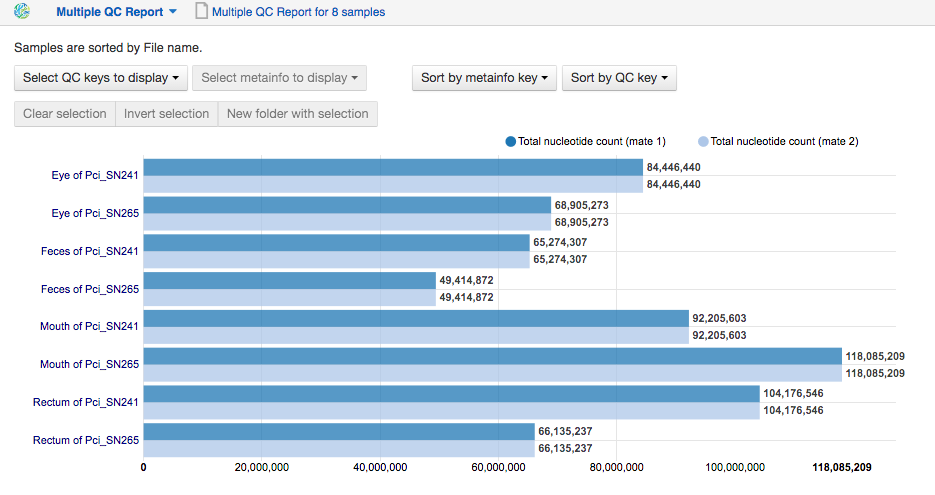
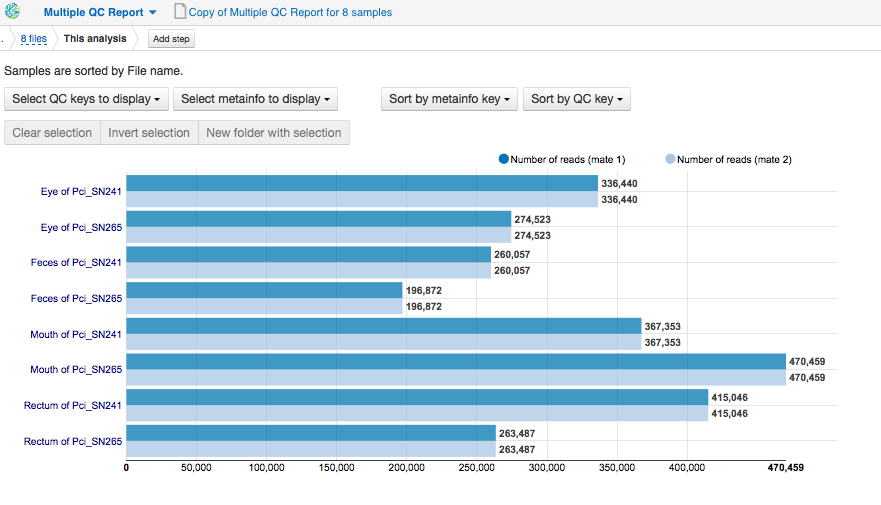
micribiome: update introduction and raw QC; replace incorrect image

diff --git a/source/tutorials/Microbiome_analysis/quality-control-of-raw-reads.rst b/source/tutorials/Microbiome_analysis/quality-control-of-raw-reads.rst
@@ -7,7 +7,8 @@ control (QC). It allows to look at some relevant properties of the raw reads,
 such as quality scores, GC content, base distribution, etc, and check
 whether any low-quality reads, PCR primers, adaptors, duplicates and other
 contaminants are present in the samples. In order to assess the quality of
-the data we'll run the `Raw Reads QC`_ data flow.
+the data, we'll run the `Raw Reads QC`_ data flow.
+
 .. Video - QC step
 .. .. raw:: html
 
@@ -16,7 +17,7 @@ the data we'll run the `Raw Reads QC`_ data flow.
 .. _Raw Reads QC: https://platform.genestack.org/endpoint/application/run/genestack/datafloweditor?a=GSF969011&action=viewFile
 
 Genestack FastQC application generates basic statistics and many useful data
-diagnosis plots. Here is some of them for `Mouth of Pci_SN265`_ sample:
+diagnosis plots. Here is some of them for `Mouth of Pci_SN265`_.
 
 .. image:: images/Microbiome_FastQC_report.png
 
@@ -67,6 +68,8 @@ In our example, first and second mate reads differ by quality score, but still,
 almost all of them are of good quality (>30). We will improve the reads quality
 by running "Filter by Quality Scores" application.
 
+.. check why we have such a picture for 16srnaseq
+
 **Per base sequence content** plots show nucleotide frequencies for each base
 position in the reads. In a random library, there could be only a little
 difference between A, T, C, G nucleotides, and the lines representing them
@@ -93,15 +96,15 @@ genes.
 
 .. image:: images/Microbiome_overrepresented_sequences.png
 
-The last two QC metrics - Sequence duplication levels and Overrepresented
-sequences - should not be used to evaluate 16S microbiome samples. Since we are
+The last two QC metrics — Sequence duplication levels and Overrepresented
+sequences — should not be used to evaluate 16S microbiome samples. Since we are
 looking at sequencing data for only a single gene, we are expecting to see an
 excess of highly similar sequences, and in turn, to get failures for these
 modules.
 
 We have run QC on all the data in the experiment and put the reports in `Raw
 reads QC reports for Alfano et al (2015)`_ folder, so that you can open all of
-them in `Multiple QC Report application`_ to analyse results:
+them in `Multiple QC Report application`_ to analyse results.
 
 .. image:: images/Microbiome_multiple_raw_reads.png
 
@@ -109,5 +112,5 @@ them in `Multiple QC Report application`_ to analyse results:
 .. _Multiple QC Report application: https://platform.genestack.org/endpoint/application/run/genestack/multiple-qc-plotter?a=GSF3772056&action=viewFile
 
 You see that a total number of sequencing reads for each sample is quite small
-and vary in the range of 190,000 to 471,000 reads. Overall, more than 2,5
+and vary in the range of 197,000 to 471,000 paired-end reads. Overall, more than 2,5
 million paired-end sequencing reads were generated.

diff --git a/source/tutorials/Microbiome_analysis/intro.rst b/source/tutorials/Microbiome_analysis/intro.rst
@@ -50,7 +50,7 @@ influence koala microbial health.
 Microbiome data analysis pipeline
 *********************************
 
-A typical data flow for Microbiome analysis consists of the following steps:
+A typical data flow for microbiome analysis consists of the following steps:
 
 #. Quality control of raw reads
 #. Preprocessing of raw reads
